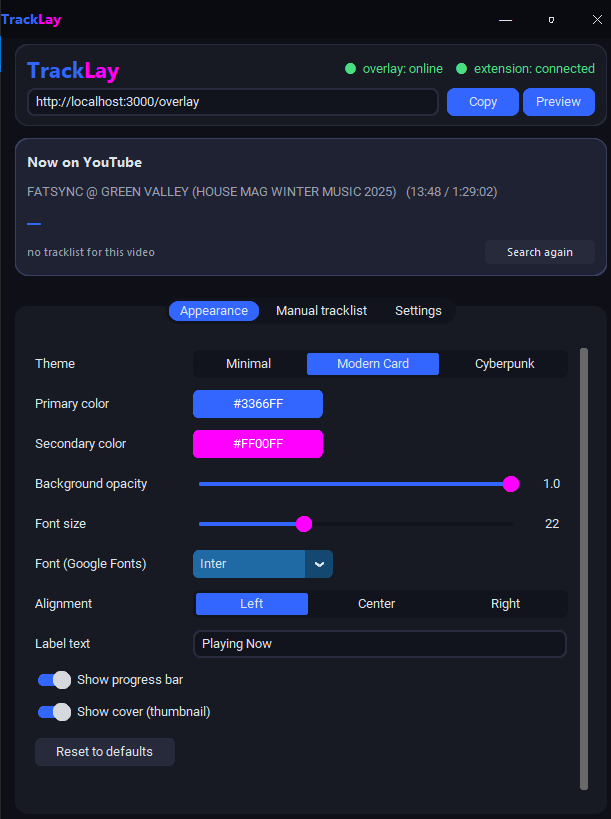
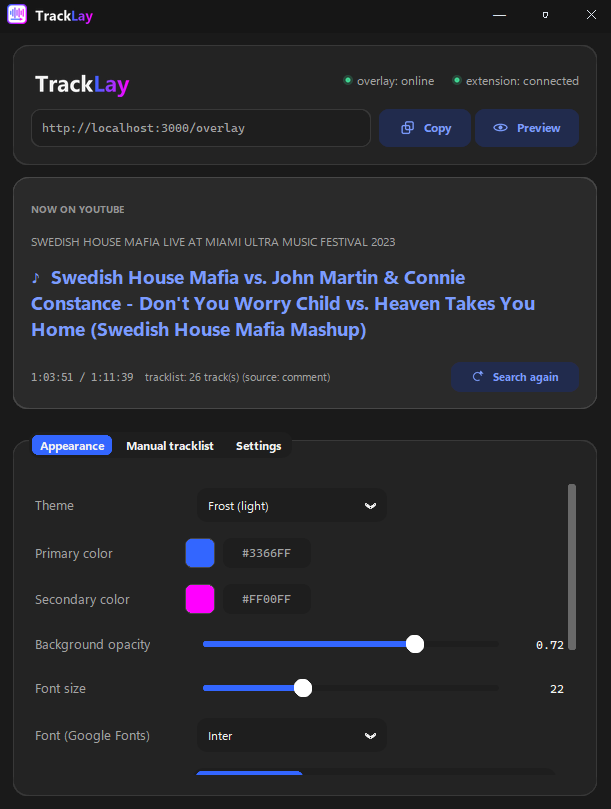
site: capturas da v1.8.0 e 7 temas
- telas do app refeitas (estavam na v1.5.0)
- '3 temas' -> '7 temas' nos 7 idiomas, com os nomes novos
- imagens dos temas novos ainda pendentes

diff --git a/ru/index.html b/ru/index.html
@@ -562,8 +562,8 @@ footer small{color:var(--mist-dim); font-size:12.5px;}
         </div>
         <div class="feat reveal">
           <div class="ic"><svg viewBox="0 0 24 24" fill="none" stroke-width="1.8" stroke-linecap="round" stroke-linejoin="round"><rect x="3" y="4" width="7" height="7" rx="1.5"/><rect x="14" y="4" width="7" height="7" rx="1.5"/><rect x="3" y="15" width="7" height="7" rx="1.5"/><rect x="14" y="15" width="7" height="7" rx="1.5"/></svg></div>
-          <h3>3 готовые темы</h3>
-          <p>Minimal, Card с обложкой и полосой прогресса, или неоновый Cyberpunk. Переключение в один клик.</p>
+          <h3>7 готовых тем</h3>
+          <p>Minimal, Card, Cyberpunk, Frost, Галактика, Золотой час и Эфир. Переключение в один клик.</p>
         </div>
         <div class="feat reveal">
           <div class="ic"><svg viewBox="0 0 24 24" fill="none" stroke-width="1.8" stroke-linecap="round" stroke-linejoin="round"><path d="M4 21v-6M4 11V3M12 21v-9M12 8V3M20 21v-4M20 13V3"/><path d="M2 15h4M8 8h8M18 13h4"/></svg></div>
@@ -590,7 +590,7 @@ footer small{color:var(--mist-dim); font-size:12.5px;}
       <div class="section-head reveal">
         <p class="eyebrow">Темы</p>
         <h2>Выберите внешний вид оверлея</h2>
-        <p>Три готовых стиля — каждый полностью настраивается по цвету и шрифту.</p>
+        <p>Семь готовых стилей — каждый полностью настраивается по цвету и шрифту.</p>
       </div>
       <div class="theme-grid">
         <div class="theme-card reveal">

diff --git a/fr/index.html b/fr/index.html
@@ -562,8 +562,8 @@ footer small{color:var(--mist-dim); font-size:12.5px;}
         </div>
         <div class="feat reveal">
           <div class="ic"><svg viewBox="0 0 24 24" fill="none" stroke-width="1.8" stroke-linecap="round" stroke-linejoin="round"><rect x="3" y="4" width="7" height="7" rx="1.5"/><rect x="14" y="4" width="7" height="7" rx="1.5"/><rect x="3" y="15" width="7" height="7" rx="1.5"/><rect x="14" y="15" width="7" height="7" rx="1.5"/></svg></div>
-          <h3>3 thèmes prêts à l'emploi</h3>
-          <p>Minimaliste, Card avec pochette et barre de progression, ou Cyberpunk néon. Changez en un clic.</p>
+          <h3>7 thèmes prêts à l'emploi</h3>
+          <p>Minimaliste, Card, Cyberpunk, Frost, Galaxie, Heure dorée et Broadcast. Changez en un clic.</p>
         </div>
         <div class="feat reveal">
           <div class="ic"><svg viewBox="0 0 24 24" fill="none" stroke-width="1.8" stroke-linecap="round" stroke-linejoin="round"><path d="M4 21v-6M4 11V3M12 21v-9M12 8V3M20 21v-4M20 13V3"/><path d="M2 15h4M8 8h8M18 13h4"/></svg></div>
@@ -590,7 +590,7 @@ footer small{color:var(--mist-dim); font-size:12.5px;}
       <div class="section-head reveal">
         <p class="eyebrow">Thèmes</p>
         <h2>Choisissez l'apparence de l'overlay</h2>
-        <p>Trois styles prêts à l'emploi — chacun entièrement personnalisable en couleur et en police.</p>
+        <p>Sept styles prêts à l'emploi — chacun entièrement personnalisable en couleur et en police.</p>
       </div>
       <div class="theme-grid">
         <div class="theme-card reveal">

diff --git a/es/index.html b/es/index.html
@@ -562,8 +562,8 @@ footer small{color:var(--mist-dim); font-size:12.5px;}
         </div>
         <div class="feat reveal">
           <div class="ic"><svg viewBox="0 0 24 24" fill="none" stroke-width="1.8" stroke-linecap="round" stroke-linejoin="round"><rect x="3" y="4" width="7" height="7" rx="1.5"/><rect x="14" y="4" width="7" height="7" rx="1.5"/><rect x="3" y="15" width="7" height="7" rx="1.5"/><rect x="14" y="15" width="7" height="7" rx="1.5"/></svg></div>
-          <h3>3 temas listos para usar</h3>
-          <p>Minimalista, Card con portada y barra de progreso, o Cyberpunk neón. Cambia con un clic.</p>
+          <h3>7 temas listos para usar</h3>
+          <p>Minimalista, Card, Cyberpunk, Frost, Galaxia, Hora dorada y Broadcast. Cambia con un clic.</p>
         </div>
         <div class="feat reveal">
           <div class="ic"><svg viewBox="0 0 24 24" fill="none" stroke-width="1.8" stroke-linecap="round" stroke-linejoin="round"><path d="M4 21v-6M4 11V3M12 21v-9M12 8V3M20 21v-4M20 13V3"/><path d="M2 15h4M8 8h8M18 13h4"/></svg></div>
@@ -590,7 +590,7 @@ footer small{color:var(--mist-dim); font-size:12.5px;}
       <div class="section-head reveal">
         <p class="eyebrow">Temas</p>
         <h2>Elige el aspecto del overlay</h2>
-        <p>Tres estilos listos para usar — cada uno totalmente personalizable en color y fuente.</p>
+        <p>Siete estilos listos para usar — cada uno totalmente personalizable en color y fuente.</p>
       </div>
       <div class="theme-grid">
         <div class="theme-card reveal">

diff --git a/de/index.html b/de/index.html
@@ -562,8 +562,8 @@ footer small{color:var(--mist-dim); font-size:12.5px;}
         </div>
         <div class="feat reveal">
           <div class="ic"><svg viewBox="0 0 24 24" fill="none" stroke-width="1.8" stroke-linecap="round" stroke-linejoin="round"><rect x="3" y="4" width="7" height="7" rx="1.5"/><rect x="14" y="4" width="7" height="7" rx="1.5"/><rect x="3" y="15" width="7" height="7" rx="1.5"/><rect x="14" y="15" width="7" height="7" rx="1.5"/></svg></div>
-          <h3>3 fertige Designs</h3>
-          <p>Minimal, Card mit Cover-Art und Fortschrittsbalken, oder neonfarbenes Cyberpunk. Mit einem Klick wechseln.</p>
+          <h3>7 fertige Designs</h3>
+          <p>Minimal, Card, Cyberpunk, Frost, Galaxie, Goldene Stunde und Broadcast. Mit einem Klick wechseln.</p>
         </div>
         <div class="feat reveal">
           <div class="ic"><svg viewBox="0 0 24 24" fill="none" stroke-width="1.8" stroke-linecap="round" stroke-linejoin="round"><path d="M4 21v-6M4 11V3M12 21v-9M12 8V3M20 21v-4M20 13V3"/><path d="M2 15h4M8 8h8M18 13h4"/></svg></div>
@@ -590,7 +590,7 @@ footer small{color:var(--mist-dim); font-size:12.5px;}
       <div class="section-head reveal">
         <p class="eyebrow">Designs</p>
         <h2>Wähle das Aussehen des Overlays</h2>
-        <p>Drei fertige Stile — jeder vollständig in Farbe und Schrift anpassbar.</p>
+        <p>Sieben fertige Stile — jeder vollständig in Farbe und Schrift anpassbar.</p>
       </div>
       <div class="theme-grid">
         <div class="theme-card reveal">

diff --git a/zh/index.html b/zh/index.html
@@ -562,8 +562,8 @@ footer small{color:var(--mist-dim); font-size:12.5px;}
         </div>
         <div class="feat reveal">
           <div class="ic"><svg viewBox="0 0 24 24" fill="none" stroke-width="1.8" stroke-linecap="round" stroke-linejoin="round"><rect x="3" y="4" width="7" height="7" rx="1.5"/><rect x="14" y="4" width="7" height="7" rx="1.5"/><rect x="3" y="15" width="7" height="7" rx="1.5"/><rect x="14" y="15" width="7" height="7" rx="1.5"/></svg></div>
-          <h3>3 种现成主题</h3>
-          <p>简约风格、带封面与进度条的卡片风格，或霓虹赛博朋克风格。一键切换。</p>
+          <h3>7 种现成主题</h3>
+          <p>简约、卡片、赛博朋克、冰霜、星系、黄金时刻和广播条。一键切换。</p>
         </div>
         <div class="feat reveal">
           <div class="ic"><svg viewBox="0 0 24 24" fill="none" stroke-width="1.8" stroke-linecap="round" stroke-linejoin="round"><path d="M4 21v-6M4 11V3M12 21v-9M12 8V3M20 21v-4M20 13V3"/><path d="M2 15h4M8 8h8M18 13h4"/></svg></div>
@@ -590,7 +590,7 @@ footer small{color:var(--mist-dim); font-size:12.5px;}
       <div class="section-head reveal">
         <p class="eyebrow">主题样式</p>
         <h2>选择叠加层的外观</h2>
-        <p>三种现成风格 — 每一种都可以完全自定义颜色和字体。</p>
+        <p>七种现成风格 — 每一种都可以完全自定义颜色和字体。</p>
       </div>
       <div class="theme-grid">
         <div class="theme-card reveal">

diff --git a/pt/index.html b/pt/index.html
@@ -562,8 +562,8 @@ footer small{color:var(--mist-dim); font-size:12.5px;}
         </div>
         <div class="feat reveal">
           <div class="ic"><svg viewBox="0 0 24 24" fill="none" stroke-width="1.8" stroke-linecap="round" stroke-linejoin="round"><rect x="3" y="4" width="7" height="7" rx="1.5"/><rect x="14" y="4" width="7" height="7" rx="1.5"/><rect x="3" y="15" width="7" height="7" rx="1.5"/><rect x="14" y="15" width="7" height="7" rx="1.5"/></svg></div>
-          <h3>3 temas prontos</h3>
-          <p>Minimalista, Card com capa e barra de progresso, ou Cyberpunk neon. Troque com um clique.</p>
+          <h3>7 temas prontos</h3>
+          <p>Minimalista, Card, Cyberpunk, Frost, Galáxia, Hora dourada e Broadcast. Troque com um clique.</p>
         </div>
         <div class="feat reveal">
           <div class="ic"><svg viewBox="0 0 24 24" fill="none" stroke-width="1.8" stroke-linecap="round" stroke-linejoin="round"><path d="M4 21v-6M4 11V3M12 21v-9M12 8V3M20 21v-4M20 13V3"/><path d="M2 15h4M8 8h8M18 13h4"/></svg></div>
@@ -590,7 +590,7 @@ footer small{color:var(--mist-dim); font-size:12.5px;}
       <div class="section-head reveal">
         <p class="eyebrow">Temas</p>
         <h2>Escolha a aparência do overlay</h2>
-        <p>Três estilos prontos — todos totalmente personalizáveis em cor e fonte.</p>
+        <p>Sete estilos prontos — todos totalmente personalizáveis em cor e fonte.</p>
       </div>
       <div class="theme-grid">
         <div class="theme-card reveal">

diff --git a/index.html b/index.html
@@ -562,8 +562,8 @@ footer small{color:var(--mist-dim); font-size:12.5px;}
         </div>
         <div class="feat reveal">
           <div class="ic"><svg viewBox="0 0 24 24" fill="none" stroke-width="1.8" stroke-linecap="round" stroke-linejoin="round"><rect x="3" y="4" width="7" height="7" rx="1.5"/><rect x="14" y="4" width="7" height="7" rx="1.5"/><rect x="3" y="15" width="7" height="7" rx="1.5"/><rect x="14" y="15" width="7" height="7" rx="1.5"/></svg></div>
-          <h3>3 ready-made themes</h3>
-          <p>Minimal, Card with cover art and progress bar, or neon Cyberpunk. Switch with one click.</p>
+          <h3>7 ready-made themes</h3>
+          <p>Minimal, Modern Card, Cyberpunk, Frost, Galaxy, Golden Hour and Broadcast. Switch with one click.</p>
         </div>
         <div class="feat reveal">
           <div class="ic"><svg viewBox="0 0 24 24" fill="none" stroke-width="1.8" stroke-linecap="round" stroke-linejoin="round"><path d="M4 21v-6M4 11V3M12 21v-9M12 8V3M20 21v-4M20 13V3"/><path d="M2 15h4M8 8h8M18 13h4"/></svg></div>
@@ -590,7 +590,7 @@ footer small{color:var(--mist-dim); font-size:12.5px;}
       <div class="section-head reveal">
         <p class="eyebrow">Themes</p>
         <h2>Choose how the overlay looks</h2>
-        <p>Three ready-made styles — each fully customizable in color and font.</p>
+        <p>Seven ready-made styles — each fully customizable in color and font.</p>
       </div>
       <div class="theme-grid">
         <div class="theme-card reveal">
